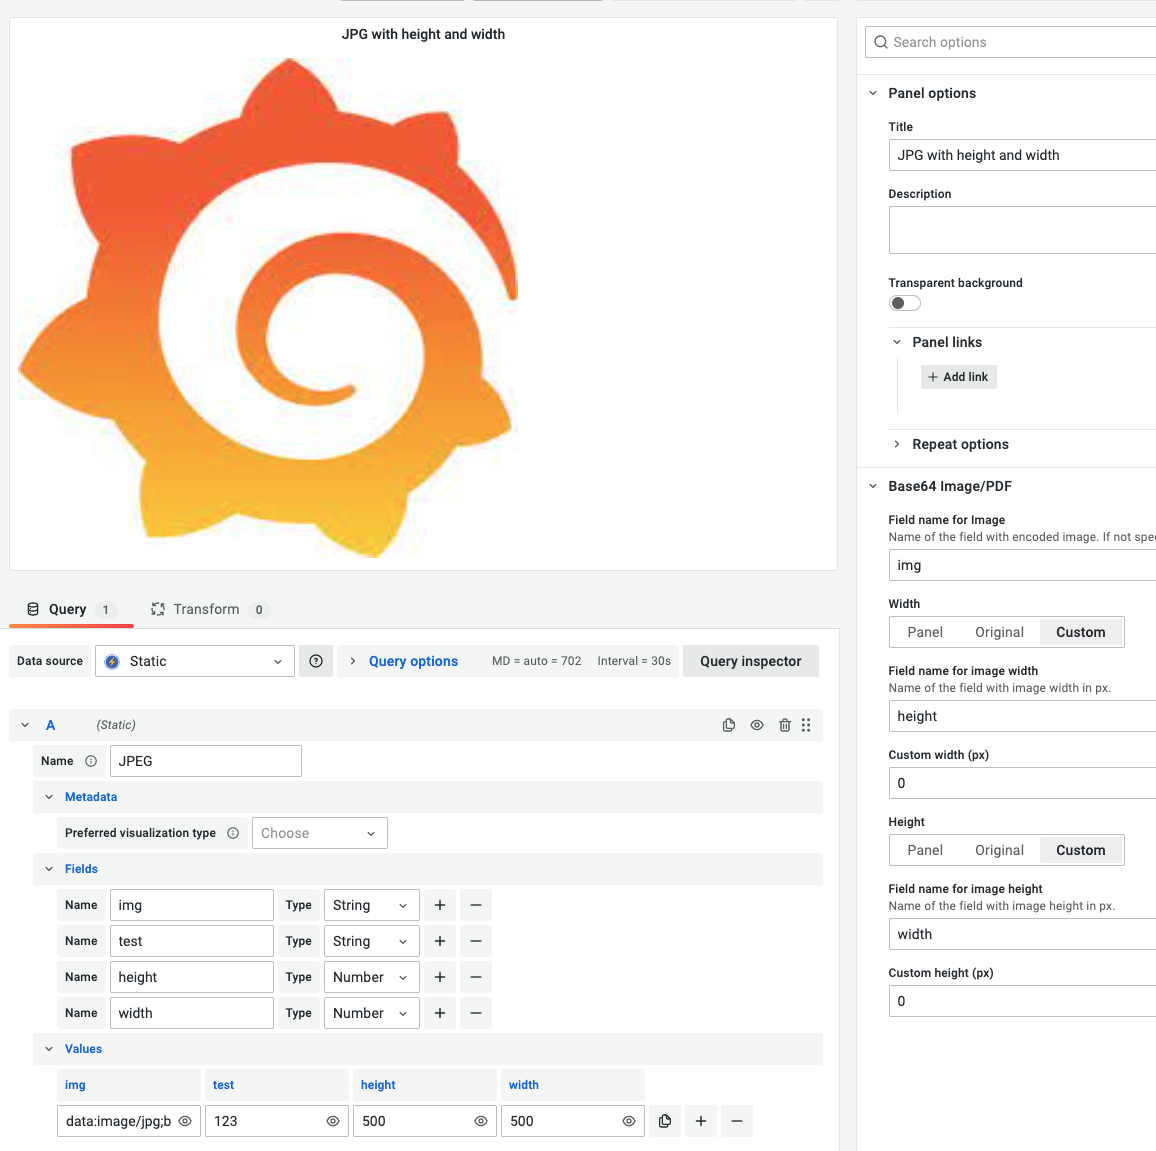
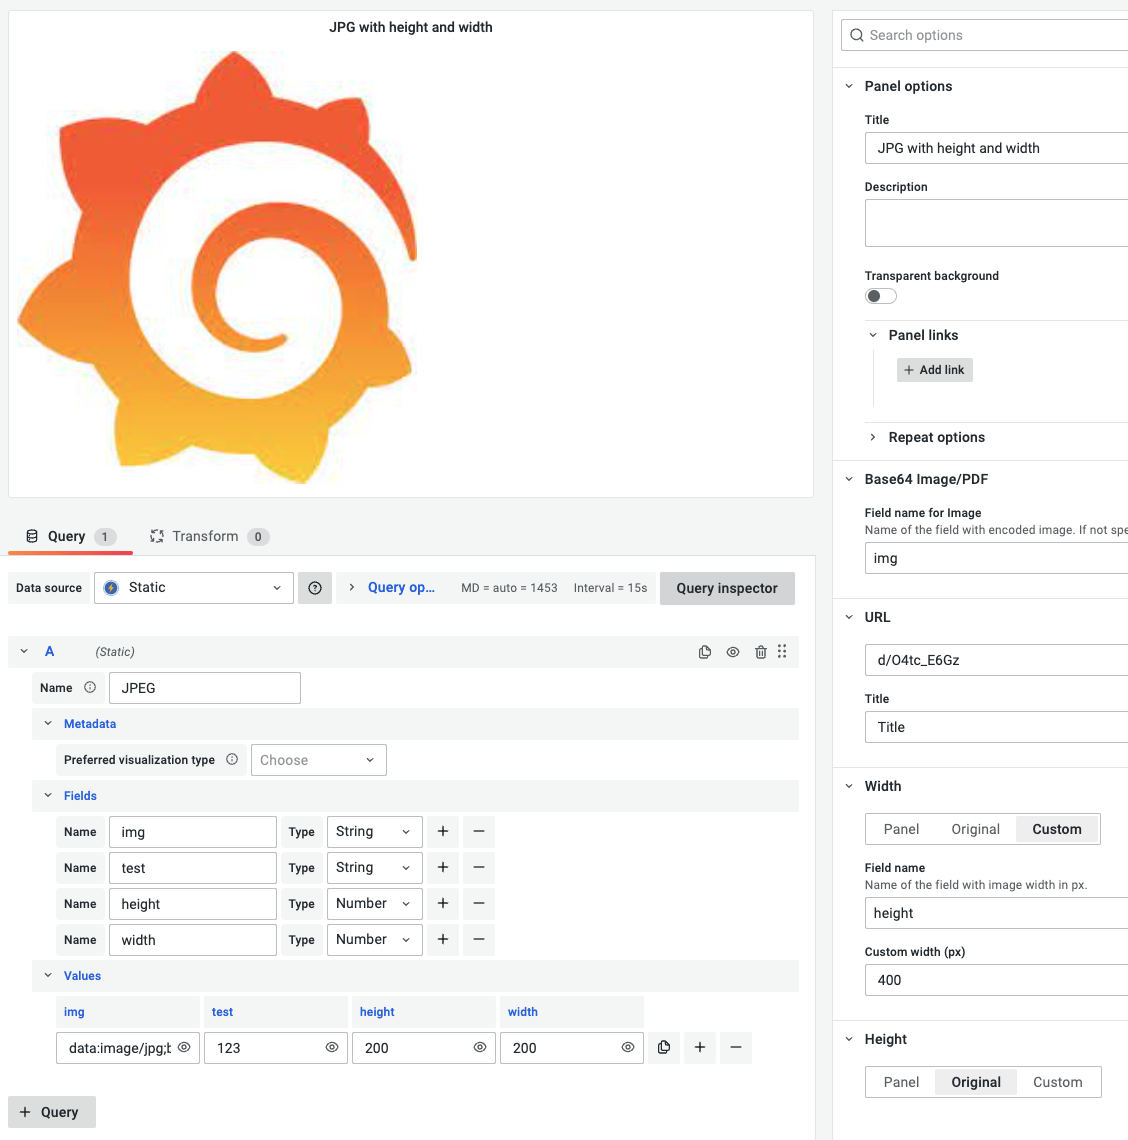
Navigate to another dashboard from image click (#20)
* Navigate to another dashboard from image click

* Update CHANGELOG.md

diff --git a/src/module.ts b/src/module.ts
@@ -17,6 +17,16 @@ export const plugin = new PanelPlugin<PanelOptions>(ImagePanel).setPanelOptions(
         noFieldsMessage: 'No strings fields found',
       },
     })
+    .addTextInput({
+      path: 'url',
+      name: 'URL',
+      category: ['URL'],
+    })
+    .addTextInput({
+      path: 'title',
+      name: 'Title',
+      category: ['URL'],
+    })
     .addRadio({
       path: 'widthMode',
       name: 'Width',
@@ -27,22 +37,25 @@ export const plugin = new PanelPlugin<PanelOptions>(ImagePanel).setPanelOptions(
           { value: ImageSizeModes.CUSTOM, label: 'Custom' },
         ],
       },
+      category: ['Width'],
       defaultValue: ImageSizeModes.AUTO,
     })
     .addFieldNamePicker({
       path: 'widthName',
-      name: 'Field name for image width',
+      name: 'Field name',
       description: 'Name of the field with image width in px.',
       settings: {
         filter: (f: Field) => f.type === FieldType.number,
         noFieldsMessage: 'No number fields found',
       },
+      category: ['Width'],
       showIf: (options: PanelOptions) => options.widthMode === ImageSizeModes.CUSTOM,
     })
     .addNumberInput({
       path: 'width',
       name: 'Custom width (px)',
       defaultValue: 0,
+      category: ['Width'],
       showIf: (options: PanelOptions) => options.widthMode === ImageSizeModes.CUSTOM,
     })
     .addRadio({
@@ -55,22 +68,25 @@ export const plugin = new PanelPlugin<PanelOptions>(ImagePanel).setPanelOptions(
           { value: ImageSizeModes.CUSTOM, label: 'Custom' },
         ],
       },
+      category: ['Height'],
       defaultValue: ImageSizeModes.AUTO,
     })
     .addFieldNamePicker({
       path: 'heightName',
-      name: 'Field name for image height',
+      name: 'Field name',
       description: 'Name of the field with image height in px.',
       settings: {
         filter: (f: Field) => f.type === FieldType.number,
         noFieldsMessage: 'No number fields found',
       },
+      category: ['Height'],
       showIf: (options: PanelOptions) => options.heightMode === ImageSizeModes.CUSTOM,
     })
     .addNumberInput({
       path: 'height',
       name: 'Custom height (px)',
       defaultValue: 0,
+      category: ['Height'],
       showIf: (options: PanelOptions) => options.heightMode === ImageSizeModes.CUSTOM,
     });
 });

diff --git a/src/image-panel/image-panel.test.tsx b/src/image-panel/image-panel.test.tsx
@@ -147,6 +147,31 @@ describe('Rendering', () => {
     expect(wrapper.find('img').exists()).toBeTruthy();
   });
 
+  it('Should render raw image with URL', async () => {
+    const getComponent = ({ options = { name: '', url: 'test' }, ...restProps }: any) => {
+      const data = {
+        series: [
+          toDataFrame({
+            name: 'data',
+            fields: [
+              {
+                type: FieldType.string,
+                name: 'raw',
+                values: ['?PNGIHDR 3z??	pHYs'],
+              },
+            ],
+          }),
+        ],
+      };
+      return <ImagePanel data={data} {...restProps} options={options} />;
+    };
+
+    const wrapper = shallow(getComponent({ date: { series: [] } }));
+    expect(wrapper.find('div').exists()).toBeTruthy();
+    expect(wrapper.find('img').exists()).toBeTruthy();
+    expect(wrapper.find('a').exists()).toBeTruthy();
+  });
+
   it('Should render raw image', async () => {
     const getComponent = ({
       options = { name: ImageFields.IMG, widthMode: ImageSizeModes.AUTO, heightMode: ImageSizeModes.AUTO },

diff --git a/src/image-panel/image-panel.tsx b/src/image-panel/image-panel.tsx
@@ -114,6 +114,15 @@ export const ImagePanel: React.FC<Props> = ({ options, data, width, height }) =>
     type = ImageTypes.PDF;
   }
 
+  let image = <img width={imageWidth || ''} height={imageHeight || ''} src={img} />;
+  if (options.url) {
+    image = (
+      <a href={options.url} title={options.title}>
+        {image}
+      </a>
+    );
+  }
+
   return (
     <div
       className={cx(
@@ -124,11 +133,7 @@ export const ImagePanel: React.FC<Props> = ({ options, data, width, height }) =>
         `
       )}
     >
-      {type === ImageTypes.PDF ? (
-        <iframe className={styles.img} width={imageWidth || ''} height={imageHeight || ''} src={img} />
-      ) : (
-        <img className={styles.img} width={imageWidth || ''} height={imageHeight || ''} src={img} />
-      )}
+      {type === ImageTypes.PDF ? <iframe width={imageWidth || ''} height={imageHeight || ''} src={img} /> : image}
     </div>
   );
 };

diff --git a/src/module.test.ts b/src/module.test.ts
@@ -18,6 +18,7 @@ describe('plugin', () => {
       addFieldNamePicker: jest.fn().mockImplementation(() => builder),
       addNumberInput: jest.fn().mockImplementation(() => builder),
       addRadio: jest.fn().mockImplementation(() => builder),
+      addTextInput: jest.fn().mockImplementation(() => builder),
     };
 
     /**
@@ -32,6 +33,7 @@ describe('plugin', () => {
   it('Should show height input if custom', () => {
     const builder: any = {
       addFieldNamePicker: jest.fn().mockImplementation(() => builder),
+      addTextInput: jest.fn().mockImplementation(() => builder),
       addNumberInput: jest.fn().mockImplementation((config) => {
         return {
           ...builder,

diff --git a/src/types.ts b/src/types.ts
@@ -52,4 +52,18 @@ export interface PanelOptions {
    * @type number
    */
   height: number;
+
+  /**
+   * URL
+   *
+   * @type string
+   */
+  url: string;
+
+  /**
+   * Title for URL
+   *
+   * @type string
+   */
+  title: string;
 }

diff --git a/src/styles.ts b/src/styles.ts
@@ -8,10 +8,5 @@ export const getStyles = () => {
     wrapper: css`
       position: relative;
     `,
-    img: css`
-      position: absolute;
-      top: 0;
-      left: 0;
-    `,
   };
 };

diff --git a/README.md b/README.md
@@ -38,6 +38,7 @@ grafana-cli plugins install volkovlabs-image-panel
 - If the data source returns more than one field with type `string`, you can select the **Field Name** in the panel's display options.
 - If the data source returns multiple rows, the panel will display the image from the last row.
 - Image height and width can be auto-adjusted to panel's size, kept original or customized base on the field's value or display's panel options.
+- Allows to add URL with title to navigate to other dashboard when clicking on the image.
 
 ## Feedback
 

diff --git a/CHANGELOG.md b/CHANGELOG.md
@@ -1,5 +1,12 @@
 # Changelog
 
+## 2.3.0 (2021-11-08)
+
+### Features / Enhancements
+
+- Navigate to another dashboard from image click (#19)
+- Upgrade to Grafana 8.2.3 (#20)
+
 ## 2.2.0 (2021-11-02)
 
 ### Features / Enhancements
